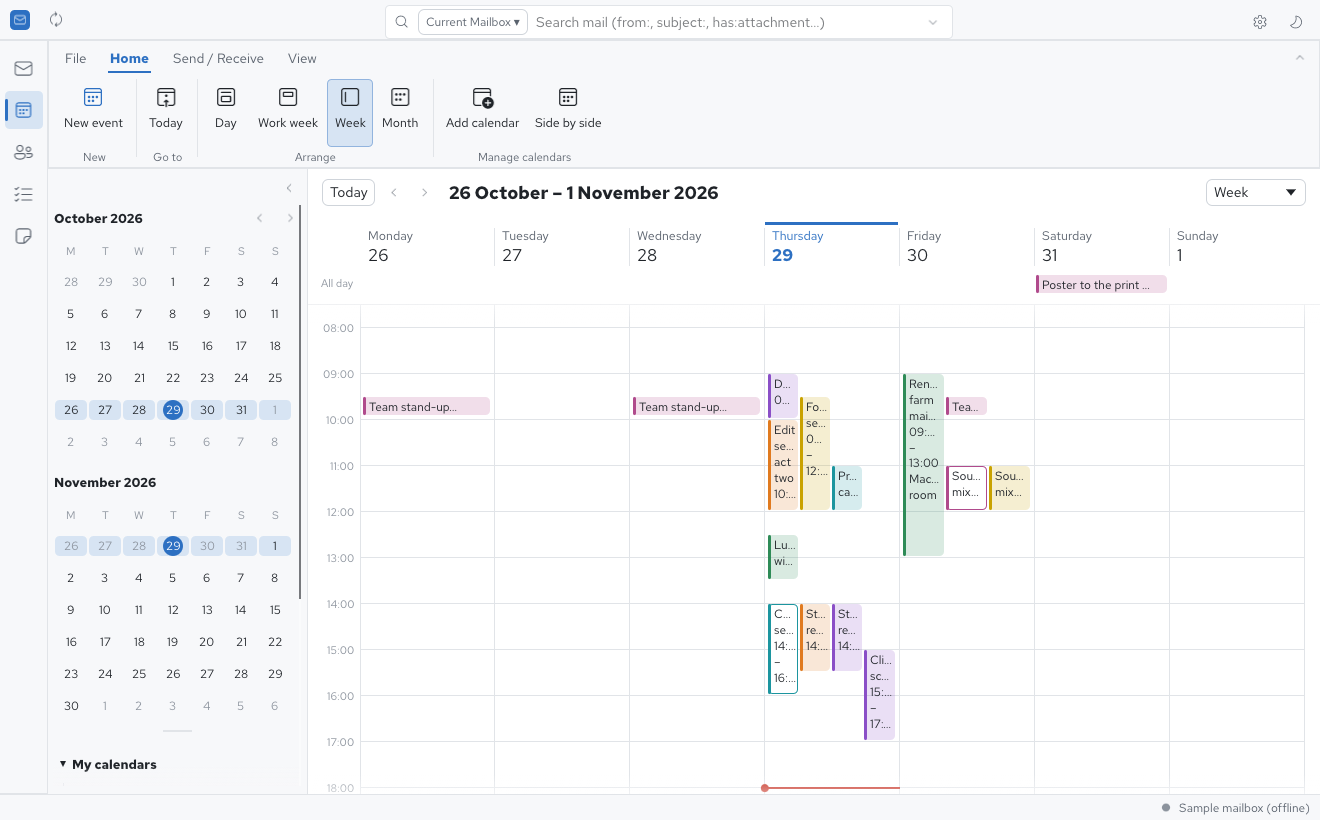
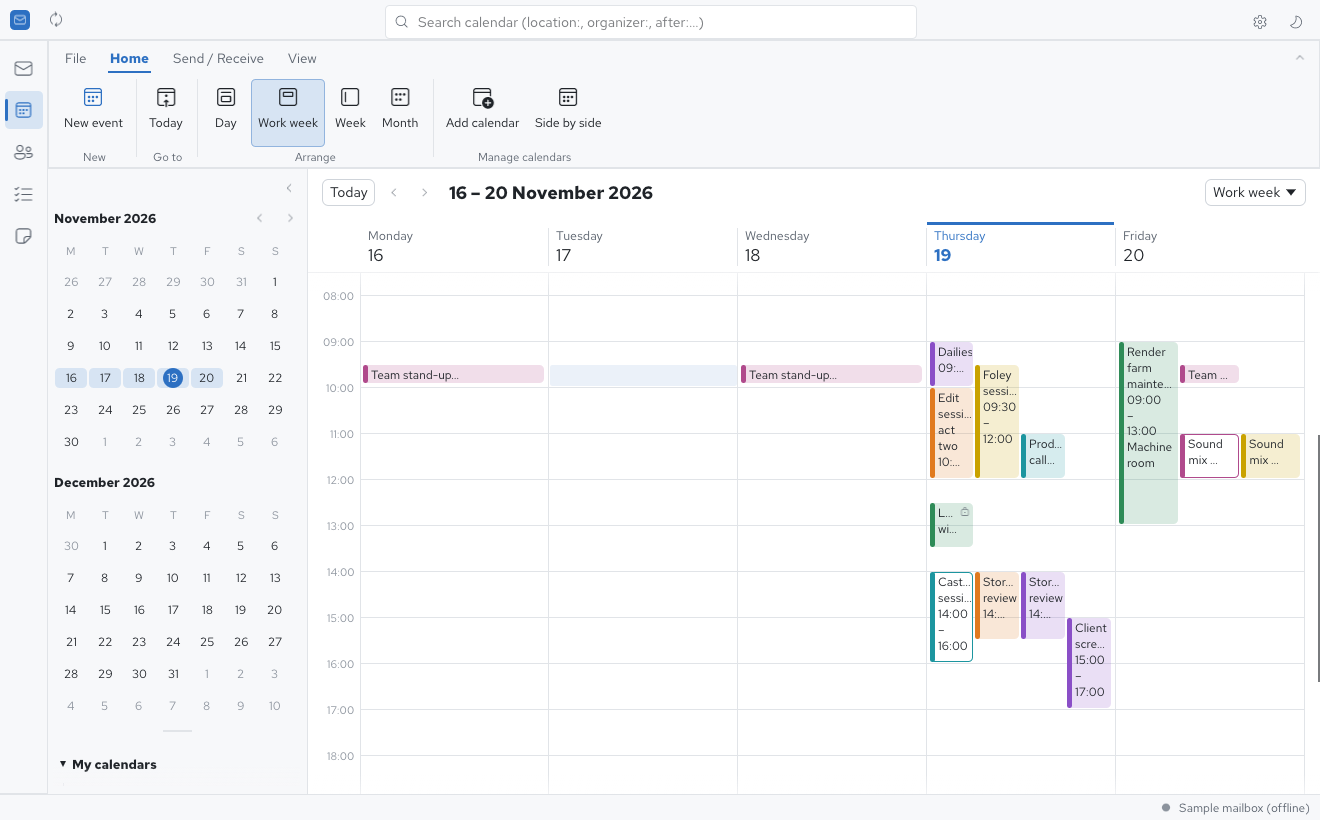
Docs: the screenshots show Quatrelle 1.5, and the calendar's is a work week
The five screenshots of the README and the site are taken again from the sample mailbox with
this release's window: reading (the Reply buttons beside the sender), a search in dark mode,
writing a reply, the calendar (a work week now, as a week squeezed Thursday's appointments) and
the classic layout. Their descriptions say what they now show, in both pages of the site.

Claude-Session: https://claude.ai/code/session_016TYoC1GYeHaRERt8MDKV9c

diff --git a/site/fr/index.html b/site/fr/index.html
@@ -86,7 +86,7 @@
       </div>
       <div class="window">
         <img src="../images/reading.png" width="1320" height="820"
-          alt="Quatrelle avec la boîte d’exemple : le volet des dossiers avec les favoris et le nombre de non-lus, le ruban avec Répondre, Actions rapides, Indicateur, Classer, Épingler et Répéter, la boîte de réception classée sous Aujourd’hui, Hier, Lundi et Semaine dernière, et un message suivi ouvert dans le volet de lecture">
+          alt="Quatrelle avec la boîte d’exemple : le volet des dossiers avec les favoris et le nombre de non-lus, le ruban avec Répondre, Actions rapides, Indicateur, Classer, Épingler et Répéter, la boîte de réception classée par jour, et un message suivi ouvert dans le volet de lecture">
       </div>
     </section>
 
@@ -147,7 +147,7 @@
         <div class="feature">
           <figure>
             <img src="../images/calendar.png" width="1320" height="820" loading="lazy"
-              alt="La semaine du calendrier : le navigateur de dates à gauche, le ruban avec Jour, Semaine de travail, Semaine et Mois, et une semaine de rendez-vous aux couleurs de leurs calendriers">
+              alt="La semaine de travail du calendrier : le navigateur de dates à gauche, le ruban avec Jour, Semaine de travail, Semaine et Mois, et les rendez-vous de la semaine aux couleurs de leurs calendriers">
           </figure>
           <div>
             <h3>Calendrier, contacts et tâches</h3>

diff --git a/site/index.html b/site/index.html
@@ -91,7 +91,7 @@
       </div>
       <div class="window">
         <img src="images/reading.png" width="1320" height="820"
-          alt="Quatrelle with the sample mailbox: the folder pane with Favorites and unread counts, the ribbon with Reply, Quick steps, Flag, Categorize, Pin and Snooze, the Inbox grouped under Today, Yesterday, Monday and Last week, and a flagged message open in the reading pane">
+          alt="Quatrelle with the sample mailbox: the folder pane with Favorites and unread counts, the ribbon with Reply, Quick steps, Flag, Categorize, Pin and Snooze, the Inbox grouped by day, and a flagged message open in the reading pane">
       </div>
     </section>
 
@@ -152,7 +152,7 @@
         <div class="feature">
           <figure>
             <img src="images/calendar.png" width="1320" height="820" loading="lazy"
-              alt="The calendar's week view: the date navigator on the left, the ribbon with Day, Work week, Week and Month, and a week of appointments in their calendars' colours">
+              alt="The calendar's work week: the date navigator on the left, the ribbon with Day, Work week, Week and Month, and the week's appointments in their calendars' colours">
           </figure>
           <div>
             <h3>Calendar, people and tasks</h3>

diff --git a/README.md b/README.md
@@ -29,7 +29,7 @@
 </p>
 
 <p align="center">
-  <img src="docs/images/reading.png" alt="Quatrelle with the sample mailbox: the folder pane on the left with Favorites and the account's folders and unread counts, the ribbon with Reply, Quick steps, Flag, Categorize, Pin and Snooze, the Inbox grouped under Today, Yesterday, Monday and Last week, and the reading pane showing a flagged message with its follow-up, Reply, Reply all, Forward, Print and Save buttons and a picture attachment" width="100%">
+  <img src="docs/images/reading.png" alt="Quatrelle with the sample mailbox: the folder pane on the left with Favorites and the account's folders and unread counts, the ribbon with Reply, Quick steps, Flag, Categorize, Pin and Snooze, the Inbox grouped by day, and the reading pane showing a flagged message with its follow-up, the Reply, Reply all and Forward buttons beside the sender, and a picture attachment" width="100%">
 </p>
 
 <table>
@@ -38,7 +38,7 @@
 <td width="50%"><img src="docs/images/compose.png" alt="Writing a reply in the reading pane: the Message, Insert, Options, Format Text and Review tabs, the font and paragraph buttons, Pop out and Discard, the From, To and Subject fields filled in, the signature and the original message below" width="100%"><p align="center"><sub><b>Write</b> in place: replies quote the original under your signature, with attachments, Cc/Bcc and drafts.</sub></p></td>
 </tr>
 <tr>
-<td width="50%"><img src="docs/images/calendar.png" alt="The calendar's week view: the date navigator on the left, the ribbon with Day, Work week, Week and Month, and a week of appointments in their calendars' colours, several side by side on Thursday" width="100%"><p align="center"><sub><b>Calendar</b>: day, week and month views, invitations, meetings with the Scheduling Assistant; Exchange, CalDAV or this computer.</sub></p></td>
+<td width="50%"><img src="docs/images/calendar.png" alt="The calendar's work week: the date navigator on the left, the ribbon with Day, Work week, Week and Month, and the week's appointments in their calendars' colours, several side by side on Thursday" width="100%"><p align="center"><sub><b>Calendar</b>: day, week and month views, invitations, meetings with the Scheduling Assistant; Exchange, CalDAV or this computer.</sub></p></td>
 <td width="50%"><img src="docs/images/table.png" alt="The classic layout: the message list as a table with From, Subject, Received, Size and Categories columns, the reading pane at the bottom, and the To-Do bar's month and coming appointments on the right" width="100%"><p align="center"><sub><b>Classic layout</b>: the list as a table, the reading pane at the bottom or off, the To-Do bar beside it.</sub></p></td>
 </tr>
 </table>
